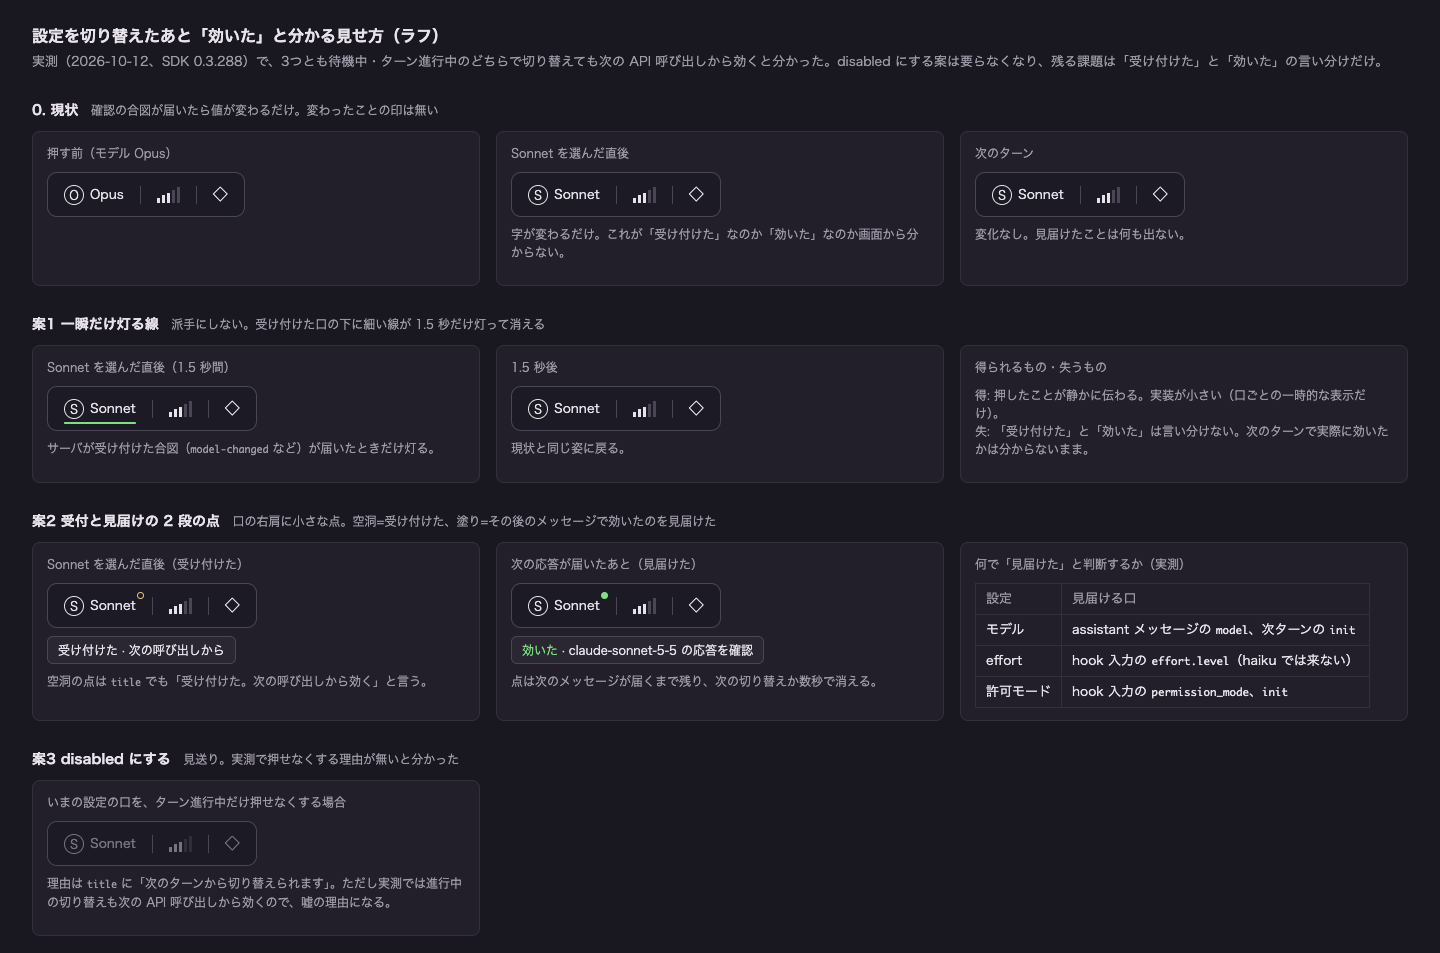
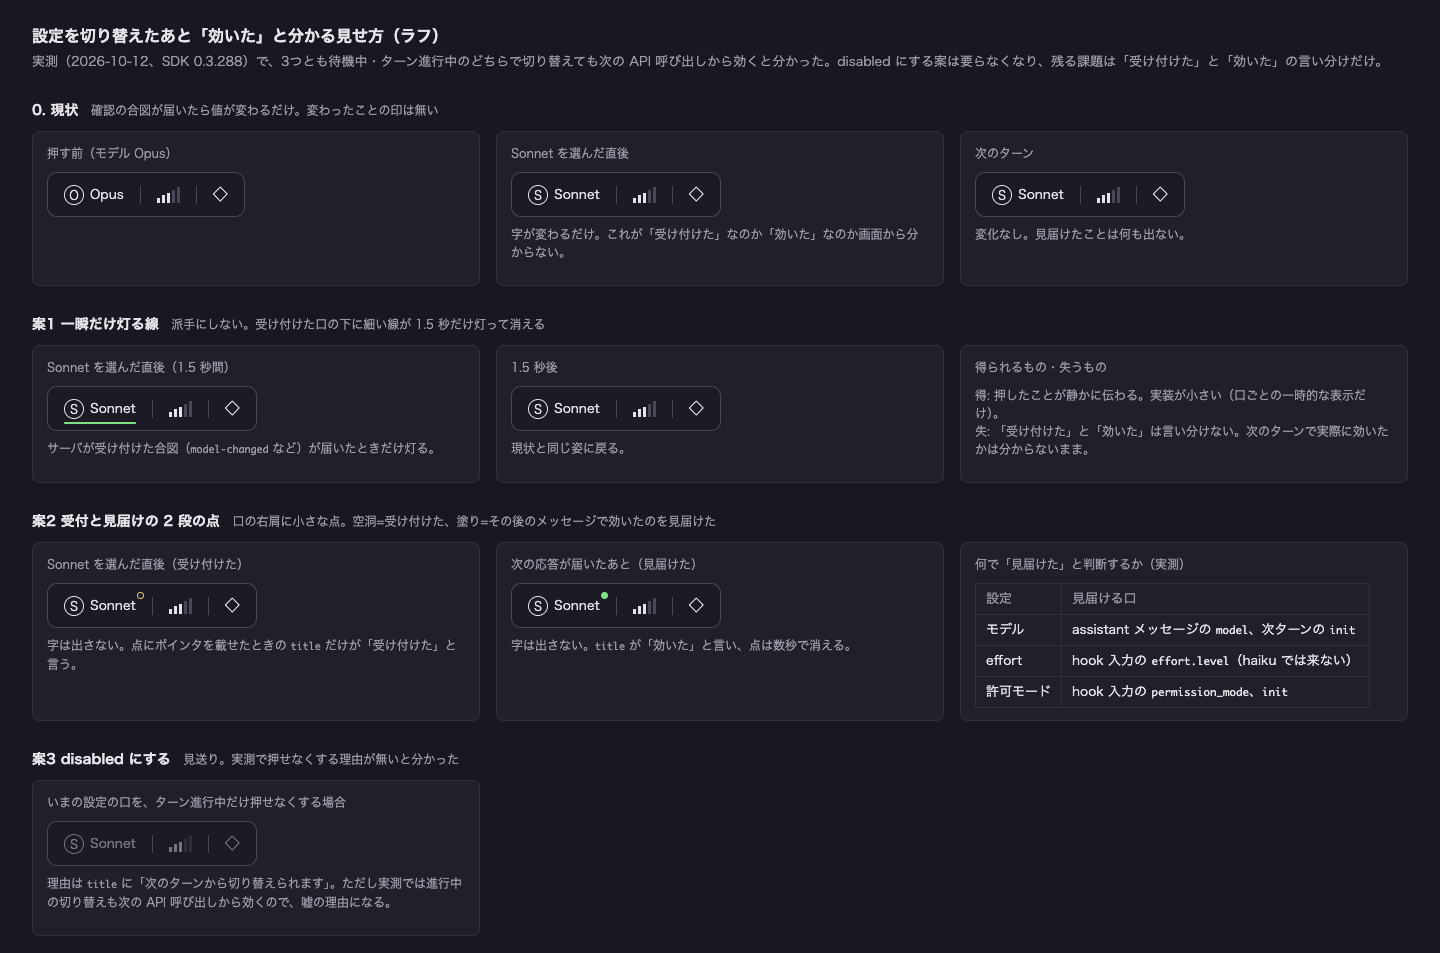
run-setting-confirm のモック: 案2 の字を点と title だけに控える

Changed region(s): [[0.0312, 0.6695, 0.3125, 0.7303], [0.3438, 0.6695, 0.5938, 0.7303]]

diff --git a/docs/history/mockup/run-setting-confirm-2026-10-12.html b/docs/history/mockup/run-setting-confirm-2026-10-12.html
@@ -77,13 +77,11 @@
 <div class="row">
   <div class="cell"><h3>Sonnet を選んだ直後（受け付けた）</h3>
     <div class="foot"><span class="mouth"><span class="ic">S</span>Sonnet<span class="dot hollow"></span></span><span class="div"></span><span class="mouth"><span class="bars"><i class="on" style="height:5px"></i><i class="on" style="height:8px"></i><i class="on" style="height:10px"></i><i style="height:13px"></i><i style="height:16px"></i></span></span><span class="div"></span><span class="mouth"><span class="shield">◇</span></span></div>
-    <div class="toast">受け付けた · 次の呼び出しから</div>
-    <p class="note">空洞の点は <code>title</code> でも「受け付けた。次の呼び出しから効く」と言う。</p>
+    <p class="note">字は出さない。点にポインタを載せたときの <code>title</code> だけが「受け付けた」と言う。</p>
   </div>
   <div class="cell"><h3>次の応答が届いたあと（見届けた）</h3>
     <div class="foot"><span class="mouth"><span class="ic">S</span>Sonnet<span class="dot solid"></span></span><span class="div"></span><span class="mouth"><span class="bars"><i class="on" style="height:5px"></i><i class="on" style="height:8px"></i><i class="on" style="height:10px"></i><i style="height:13px"></i><i style="height:16px"></i></span></span><span class="div"></span><span class="mouth"><span class="shield">◇</span></span></div>
-    <div class="toast"><b>効いた</b> · claude-sonnet-5-5 の応答を確認</div>
-    <p class="note">点は次のメッセージが届くまで残り、次の切り替えか数秒で消える。</p>
+    <p class="note">字は出さない。<code>title</code> が「効いた」と言い、点は数秒で消える。</p>
   </div>
   <div class="cell"><h3>何で「見届けた」と判断するか（実測）</h3>
     <table>
